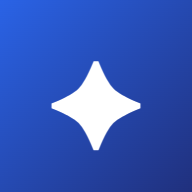
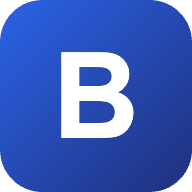
feat(voice+brand): 微信式语音模式 + 替换 BIPO 图标
- 语音: 点麦克风进入"按住说话"模式(键盘可切回), 长按录音浮层,
  上滑取消/松开发送, 按太短提示重试
- 图标: Teams app 图标(color/outline)换成 BIPO "B" 方形徽标(品牌色渐变);
  应用内顶栏 logo 同步为 B
- 注意: 图标属 manifest 变更, 需重打 zip 并在 Teams 重新上传

diff --git a/src/chat/Chatbot.tsx b/src/chat/Chatbot.tsx
@@ -32,7 +32,8 @@ function mdBold(s: string) {
 }
 
 export function Chatbot() {
-  const { engine, role, lang } = useStore();
+  const { engine, role, lang, toast } = useStore();
+  const [voiceMode, setVoiceMode] = useState(false); // 点麦克风进入"按住说话"模式
   const [entries, setEntries] = useState<Entry[]>([
     {
       kind: "agent",
@@ -83,10 +84,12 @@ export function Chatbot() {
   const speech = useSpeech(lang, (text) => void send(text));
   const [cancelArmed, setCancelArmed] = useState(false);
   const micStartY = useRef(0);
+  const micDownTime = useRef(0);
   const micDown = (e: ReactPointerEvent) => {
     e.preventDefault();
     (e.currentTarget as HTMLElement).setPointerCapture(e.pointerId);
     micStartY.current = e.clientY;
+    micDownTime.current = Date.now();
     setCancelArmed(false);
     speech.start();
   };
@@ -96,8 +99,12 @@ export function Chatbot() {
   };
   const micUp = () => {
     if (!speech.recording) return;
+    const elapsed = Date.now() - micDownTime.current;
     if (cancelArmed) speech.cancel();
-    else speech.finish();
+    else if (elapsed < 600) {
+      speech.cancel(); // 按太短 → 不发送, 提示重试
+      toast(lang === "zh" ? "说话时间太短，请重试" : "Too short, try again");
+    } else speech.finish();
     setCancelArmed(false);
   };
 
@@ -148,34 +155,52 @@ export function Chatbot() {
               </div>
             </div>
           )}
-          <div className="box">
-            <span style={{ fontSize: 18, color: "var(--mute)" }}>＋</span>
-            <input
-              value={input}
-              placeholder={t("composerPh")}
-              onChange={(ev) => setInput(ev.target.value)}
-              onKeyDown={(ev) => {
-                if (ev.key === "Enter") onSubmit();
-              }}
-            />
-            {speech.supported && (
+          {voiceMode ? (
+            <div className="voice-row">
+              <button className="kbd" onClick={() => setVoiceMode(false)} aria-label={lang === "zh" ? "切回键盘" : "Keyboard"}>
+                ⌨
+              </button>
               <button
-                className={`mic ${speech.recording ? "on" : ""}`}
+                className={`hold-bar ${speech.recording ? (cancelArmed ? "cancel" : "on") : ""}`}
                 onPointerDown={micDown}
                 onPointerMove={micMove}
                 onPointerUp={micUp}
                 onPointerCancel={micUp}
-                aria-label={lang === "zh" ? "按住说话" : "Hold to talk"}
-                title={lang === "zh" ? "按住说话" : "Hold to talk"}
                 style={{ touchAction: "none" }}
               >
-                🎤
+                {speech.recording
+                  ? cancelArmed
+                    ? lang === "zh" ? "松开 取消" : "Release to cancel"
+                    : lang === "zh" ? "松开 发送" : "Release to send"
+                  : lang === "zh" ? "按住 说话" : "Hold to talk"}
               </button>
-            )}
-            <button className="send" disabled={streaming || !input.trim()} onClick={onSubmit} aria-label={t("send")}>
-              ↑
-            </button>
-          </div>
+            </div>
+          ) : (
+            <div className="box">
+              <span style={{ fontSize: 18, color: "var(--mute)" }}>＋</span>
+              <input
+                value={input}
+                placeholder={t("composerPh")}
+                onChange={(ev) => setInput(ev.target.value)}
+                onKeyDown={(ev) => {
+                  if (ev.key === "Enter") onSubmit();
+                }}
+              />
+              {speech.supported && (
+                <button
+                  className="mic"
+                  onClick={() => setVoiceMode(true)}
+                  aria-label={lang === "zh" ? "语音输入" : "Voice input"}
+                  title={lang === "zh" ? "语音输入" : "Voice input"}
+                >
+                  🎤
+                </button>
+              )}
+              <button className="send" disabled={streaming || !input.trim()} onClick={onSubmit} aria-label={t("send")}>
+                ↑
+              </button>
+            </div>
+          )}
           <div className="sug">
             {suggestions.map((q) => (
               <span className="q" key={q} onClick={() => void send(q)}>

diff --git a/src/styles.css b/src/styles.css
@@ -75,6 +75,12 @@ body { background: var(--page); color: var(--ink); }
 .rec-mic { font-size: 22px; animation: pulse 1.1s infinite; display: inline-block; border-radius: 50%; }
 .rec-text { font-size: 13.5px; margin: 6px 0 4px; min-height: 18px; }
 .rec-hint { font-size: 11px; opacity: 0.75; }
+/* 语音模式：键盘切换 + 大"按住说话"条 */
+.voice-row { max-width: 760px; margin: 0 auto; display: flex; align-items: center; gap: 10px; }
+.kbd { width: 42px; height: 42px; border-radius: 999px; border: 1px solid var(--line); background: #fff; font-size: 18px; color: var(--slate); cursor: pointer; flex: 0 0 auto; }
+.hold-bar { flex: 1; height: 42px; border-radius: 999px; border: 1px solid var(--line); background: #fff; font-weight: 700; font-size: 14px; color: var(--navy); cursor: pointer; user-select: none; -webkit-user-select: none; letter-spacing: 2px; }
+.hold-bar.on { background: var(--indigo); color: #fff; border-color: var(--indigo); }
+.hold-bar.cancel { background: var(--red); color: #fff; border-color: var(--red); }
 .box { max-width: 760px; margin: 0 auto; display: flex; align-items: center; gap: 8px; border: 1px solid var(--line); border-radius: 999px; padding: 6px 8px 6px 14px; }
 .box input { flex: 1; border: 0; outline: 0; font-size: 14px; background: transparent; }
 .send { width: 34px; height: 34px; border-radius: 50%; border: 0; background: var(--indigo); color: #fff; font-size: 16px; cursor: pointer; flex: 0 0 auto; }

diff --git a/src/App.tsx b/src/App.tsx
@@ -20,7 +20,7 @@ export function App() {
           <div className="brand-slim" />
         ) : (
           <div className="brand">
-            <div className="logo">✦</div>
+            <div className="logo">B</div>
             <div>
               <div className="name">{t("appName")}</div>
               <div className="sub">{t("online")}</div>
